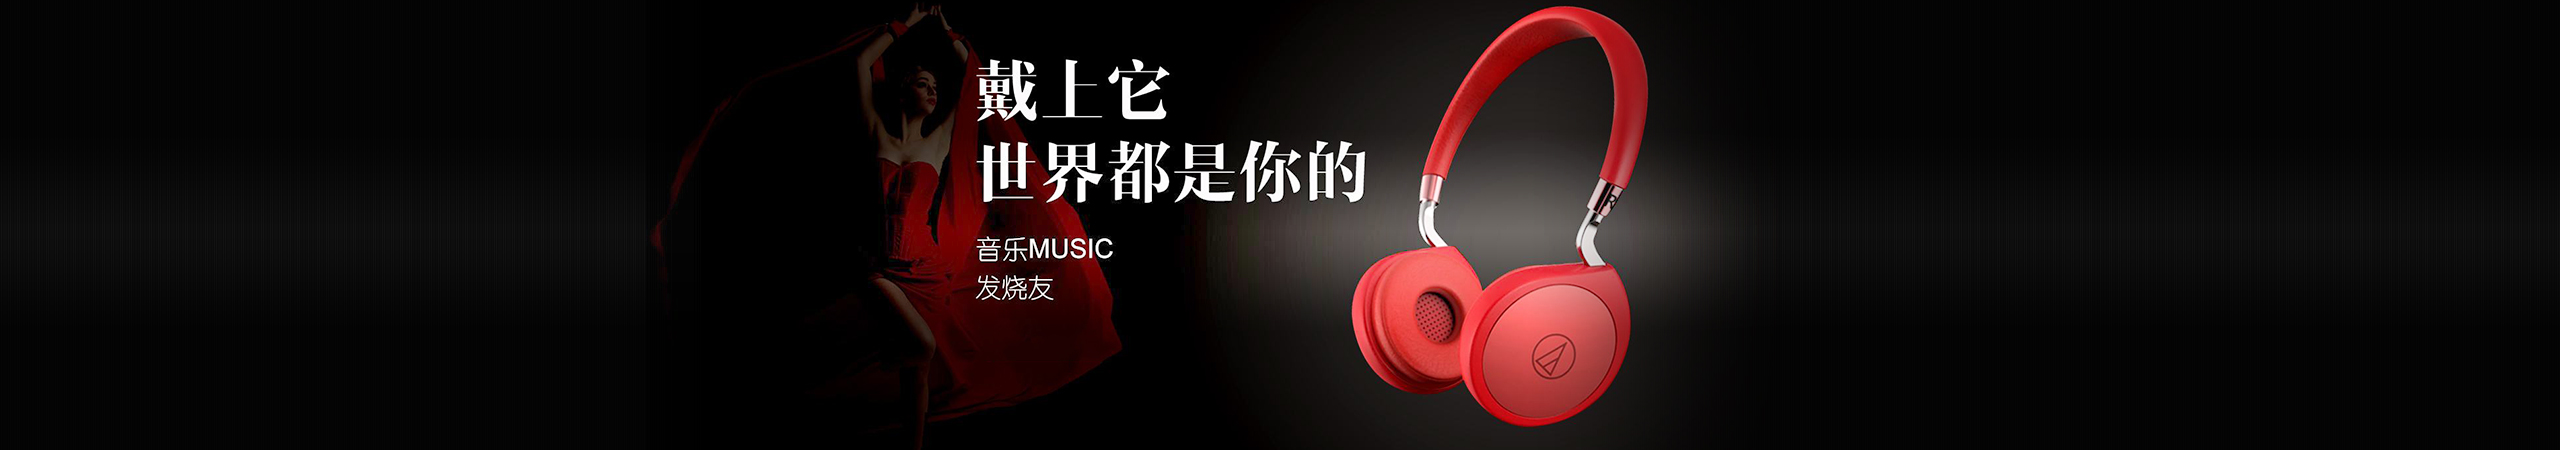
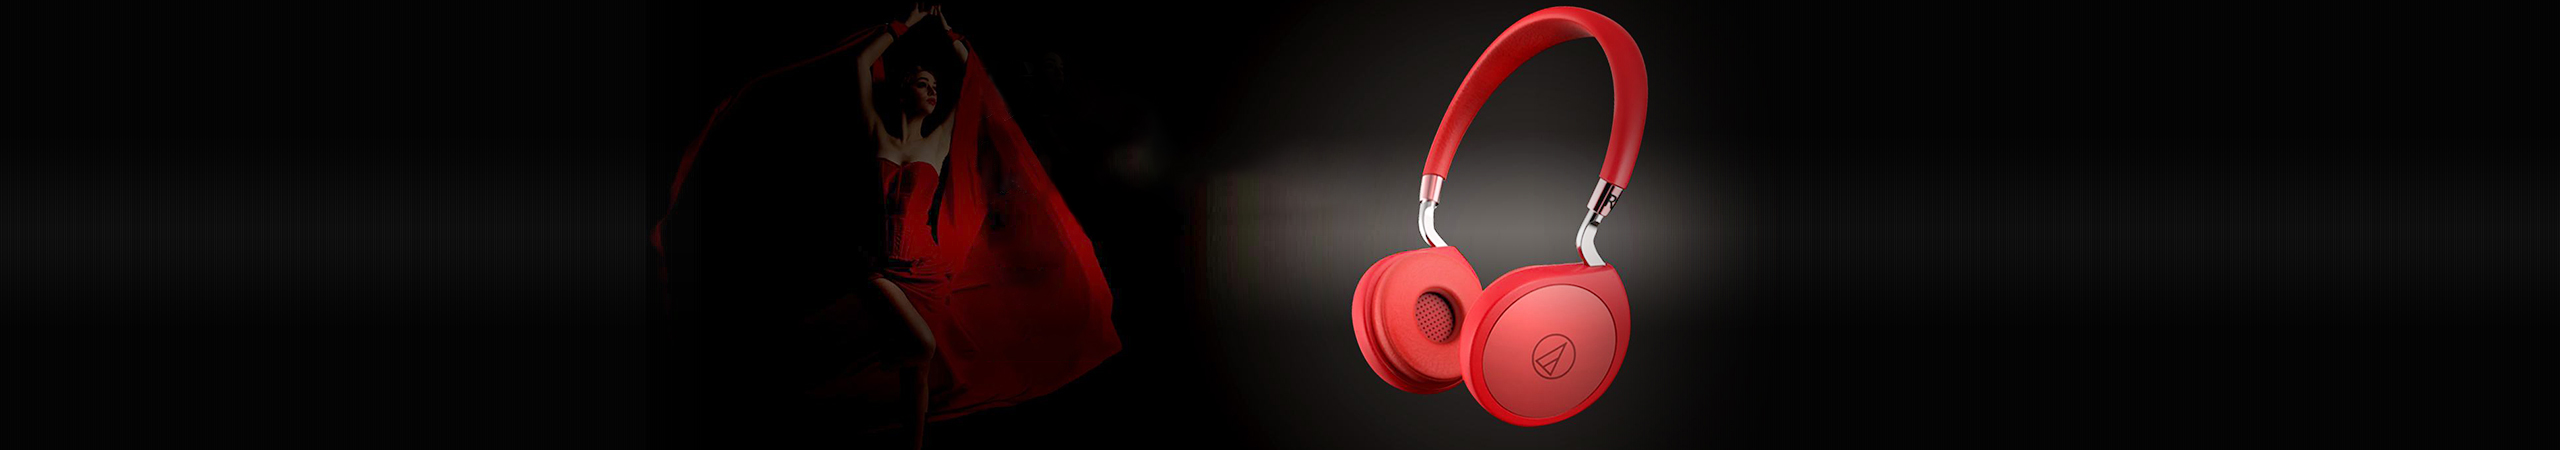
返回顶部 点击锚点滚动至指定div

Changed region(s): [[0.375, 0.3111, 0.5312, 0.4667], [0.375, 0.1244, 0.4688, 0.28], [0.375, 0.5289, 0.4375, 0.6844]]

diff --git a/src/mockjs/office-web.js b/src/mockjs/office-web.js
@@ -1,19 +1,28 @@
-// 点击锚点滚动到指定DIV
-function scrollTo(){
-	$(".scrollTo").click(function(event){
-		var e = getEvent(event);
-    e.preventDefault();
-    var hash = e.currentTarget.hash;
-		hash = hash.substr(1);
-		if($("#"+hash).length!=0){
-			var top = $(this.hash).offset().top;
-			$("html,body").stop().animate({
-				scrollTop:top+"px"
-			},1000);
-		}
-	});
+exports.install = function(Vue,options){
+	// 1、点击锚点滚动到指定DIV
+	Vue.prototype.scrollTo = function(event){
+			var e = this.getEvent(event);
+			e.preventDefault();
+			var hash = e.currentTarget.hash;
+			hash = hash.substr(1);
+			if(hash.length!=0){
+				var top = $("#"+hash).offset().top;
+				$("html,body").stop().animate({
+						scrollTop:top+"px"
+				},1000);
+			}
+	}
+
+	// 2、返回顶部
+	Vue.prototype.backTop = function(){
+			var scrollT = $(window).scrollTop();
+			if(scrollT!=0)
+			$("html,body").stop().animate({"scrollTop":0},"slow");
+	}
+
+	Vue.prototype.getEvent = function(evt){
+			return evt||window.event;
+	}
+
 }
 
-function getEvent(evt){
-	return evt||window.event;
-}

diff --git a/src/views/contract.vue b/src/views/contract.vue
@@ -1,11 +1,11 @@
 <template>
     <div class="contract-box">
         <!-- banner start -->
-        <a href="#contract-us" class="scrollTo">
+        <a href="#contract-us" class="scrollTo" @click="scrollTo()">
             <page-banner title='联系我们' customClass="contract-banner" content="往下可以轻松的联系我们哦"></page-banner>
         </a>
         <!-- banner end -->
-        <div class="contract-type container">
+        <div id="contract-us" class="contract-type container">
             <contact-item title="公司地址"></contact-item>
             <contact-item title="联系方式" bgColor="bg-color2">
                 <slot>
@@ -62,6 +62,8 @@ export default {
     data:function(){
         return {
         }
+    },
+    methods:{
     }
 }
 </script>

diff --git a/src/App.vue b/src/App.vue
@@ -5,7 +5,10 @@
     <!-- 导航栏 -->
     <navigation-bar></navigation-bar>
     <router-view/>
+    <!-- footer -->
     <bottom-footer></bottom-footer>
+    <!-- 返回顶部按钮 -->
+    <i @click="backTop()" class="iconfont icon-arrow-up back-top"></i>
   </div>
 </template>
 
@@ -28,7 +31,7 @@ export default {
     "bottom-footer":bottomFooter
   },
   mounted:function(){
-  }
+  },
 }
 </script>
 
@@ -40,5 +43,5 @@ export default {
   text-align: center;
   color: #2c3e50;
 }
-
+.back-top{position:fixed;right:30px;bottom:100px;font-size:30px;color:#fff;display: inline-block;width:50px;height:50px;background-color:#0099ff;line-height:50px;text-align:center;border-radius:5px;}
 </style>

diff --git a/src/main.js b/src/main.js
@@ -7,7 +7,7 @@ import "babel-polyfill" //兼容包
 
 import url from "./mockjs/url"
 import "./mockjs/app-mock"
-import "./mockjs/office-web"
+import officeWeb from "./mockjs/office-web"
 
 import {WOW} from "./mockjs/wow.min2"
 new WOW({live: false}).init();
@@ -26,6 +26,7 @@ import "./assets/iconfont/iconfont.css"
 Vue.use(ElementUI);
 Vue.config.productionTip = false;
 Vue.use(url);
+Vue.use(officeWeb);
 
 /* eslint-disable no-new */
 new Vue({
@@ -34,7 +35,8 @@ new Vue({
   components: { App },
   template: '<App/>',
   mounted:function(){
-    scrollTo();
+  },
+  methods:{
+    
   }
 })
-

diff --git a/src/views/mall.vue b/src/views/mall.vue
@@ -1,8 +1,8 @@
 <template>
     <div class="mall-box">
         <!-- banner start -->
-        <a href="#mall-content" class="scrollTo">
-           <page-banner title='' customClass="mall-banner" content=""></page-banner>
+        <a href="#mall" class="scrollTo" @click="scrollTo()">
+           <page-banner title='带上它世界都是你的' customClass="mall-banner" content="音乐MUSIC发烧友"></page-banner>
         </a>
         <!-- banner end -->
         <!-- 内容 start -->

diff --git a/src/views/company_profile.vue b/src/views/company_profile.vue
@@ -1,7 +1,7 @@
 <template>
     <div class="profile-box">
         <!-- banner start -->
-        <a href="#profile-content" class="scrollTo">
+        <a href="#profile-content" class="scrollTo" @click="scrollTo()">
            <page-banner title='企业简介' customClass="profile-banner" :content="bannerContent"></page-banner>
         </a>
         <!-- banner end -->

diff --git a/src/views/download.vue b/src/views/download.vue
@@ -1,7 +1,7 @@
 <template>
     <div class="download-box">
         <!-- banner start -->
-        <a href="#app-download" class="scrollTo">
+        <a href="#app-download" class="scrollTo" @click="scrollTo()">
              <page-banner title='客户端下载' customClass="app-banner" content="最新版客户端"></page-banner>
         </a>
         <!-- banner end -->

diff --git a/src/views/news.vue b/src/views/news.vue
@@ -1,7 +1,7 @@
 <template>
     <div class="news">
         <!-- banner start -->
-        <a href="#news-content" class="scrollTo">
+        <a href="#news-content" class="scrollTo" @click="scrollTo()">
            <page-banner title='新闻资讯' customClass="news-banner" :content="bannerContent"></page-banner>
         </a>
         <!-- banner end -->

diff --git a/src/views/product_center.vue b/src/views/product_center.vue
@@ -1,6 +1,6 @@
 <template>
     <div class="product-box">
-        <a href="#product-center" class="scrollTo">
+        <a href="#product-center" class="scrollTo" @click="scrollTo()">
            <page-banner title='产品中心' customClass="product-banner" :content="bannerContent"></page-banner>
         </a>
         <div id="product-center">
